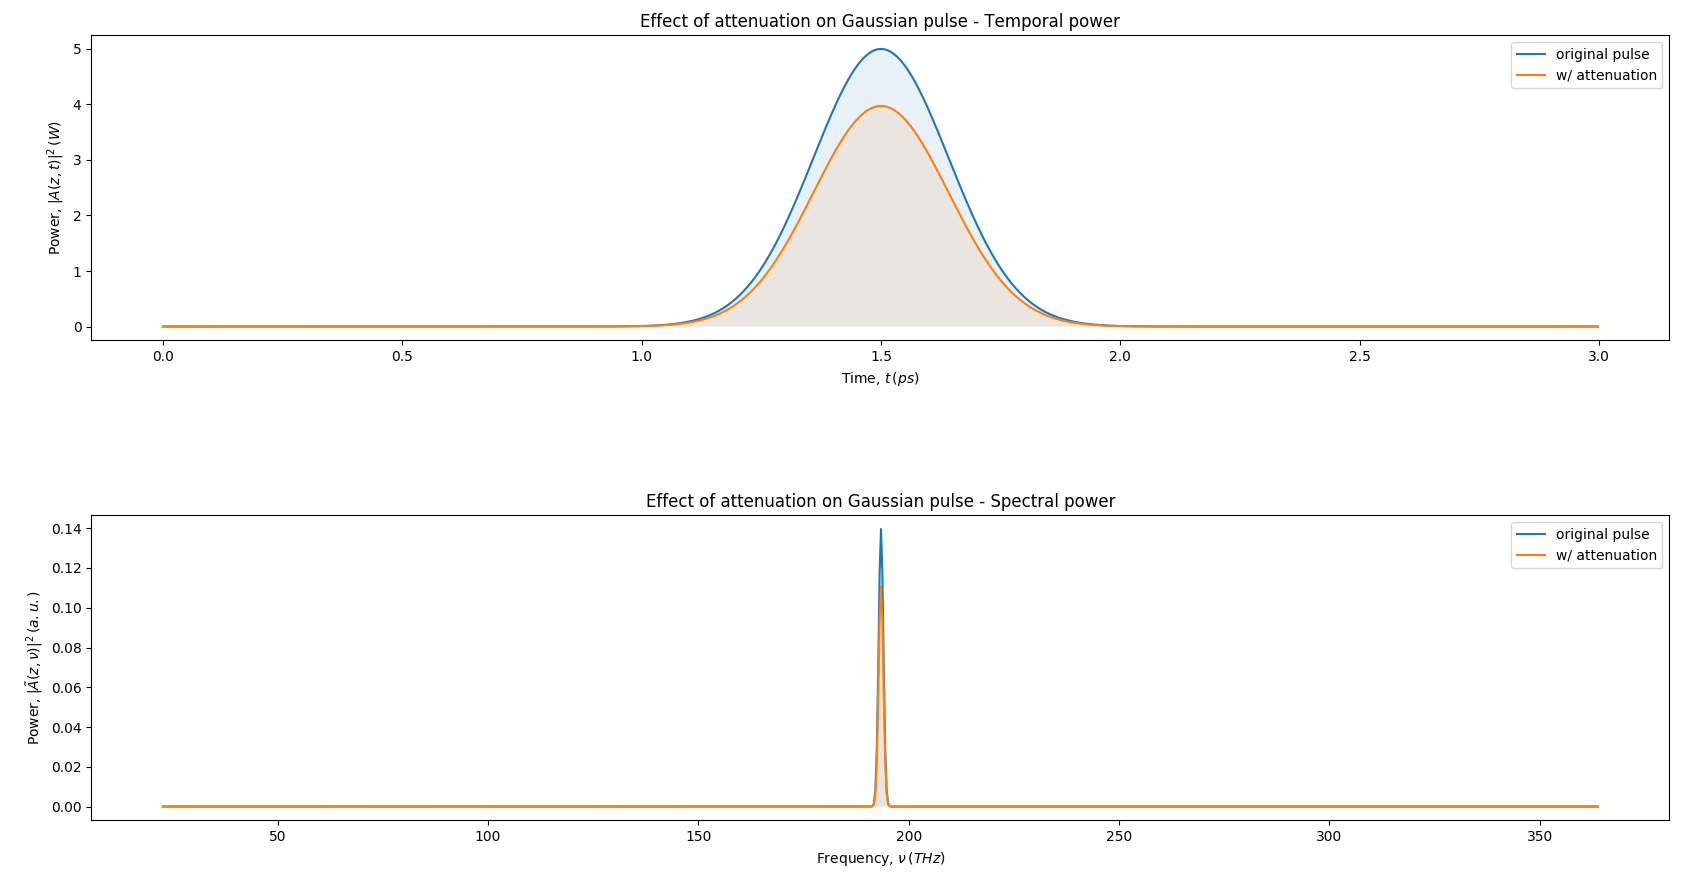
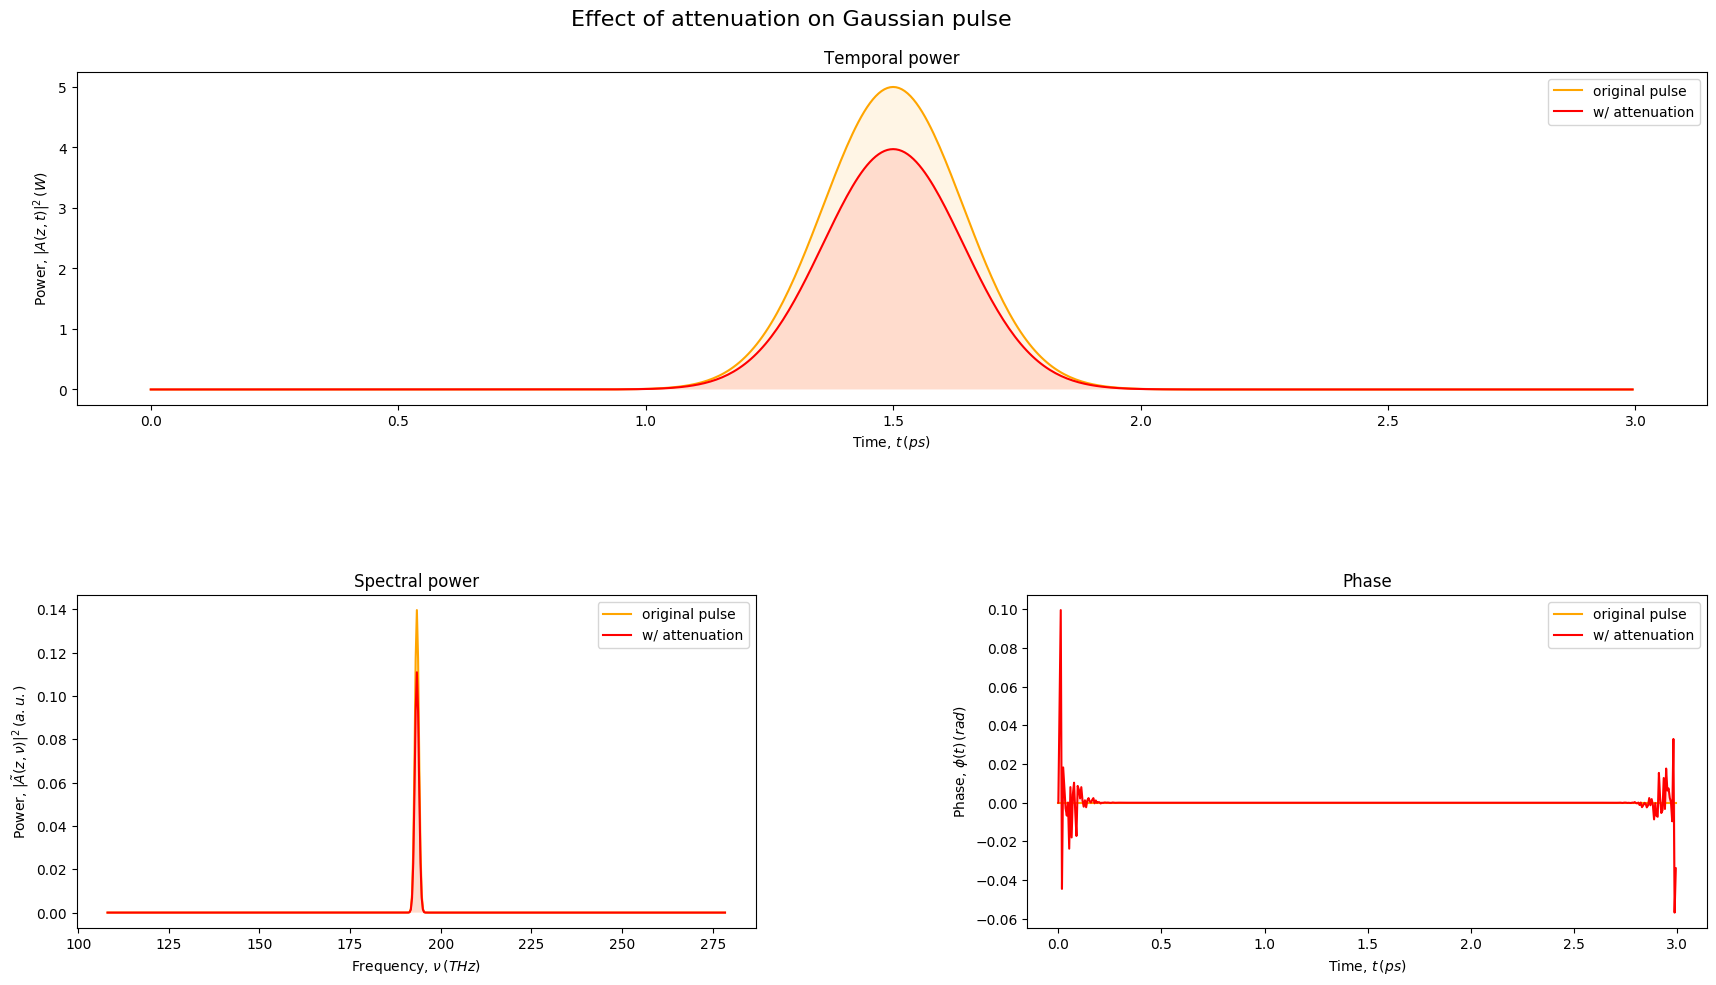
Add resolution in plot() for saving plot

diff --git a/optcom/utils/plot.py b/optcom/utils/plot.py
@@ -57,7 +57,7 @@ linestyles = ['solid', 'dotted', 'dashed', 'dashdot', (0, (1, 10)), (0, (1, 1)),
 
 '''
 # For color, see https://matplotlib.org/examples/color/named_colors.html
-linecolors = ['red', 'orange', 'greenyellow' ,'violet', 'silver', 'brown',
+linecolors = ['orange', 'red', 'greenyellow' ,'violet', 'silver', 'brown',
               'pink', 'gray', 'black', 'marroon', 'blue', 'navy', 'gold',
               'cyan', 'palegreen', 'deepskyblue', 'lime',]
 
@@ -162,7 +162,8 @@ def plot(x_datas: List[Array[float]], y_datas: List[Array[float]],
          plot_colors: Optional[List[str]] = None,
          plot_groups: Optional[List[int]] = None,
          split: Optional[bool] = None, opacity: List[float] = [0.2],
-         fig_title: Optional[str] = None, filename: str = ""):
+         fig_title: Optional[str] = None, filename: str = "",
+         resolution: Tuple[float, float] = (1920., 1080.)) -> None:
 
     # N.B. if y_datas comes from field, np.ndarray is multidim
     # initializing -----------------------------------------------------
@@ -245,7 +246,9 @@ def plot(x_datas: List[Array[float]], y_datas: List[Array[float]],
         plt.suptitle(fig_title, fontsize=16)
     plt.tight_layout()  # Avoiding overlapping texts (legend)
     if (filename != ""):
-        plt.savefig(filename)
+        fig = plt.gcf()
+        fig.set_size_inches(resolution[0]/fig.dpi, resolution[1]/fig.dpi)
+        fig.savefig(filename, bbox_inches='tight')
         util.print_terminal("Graph has been saved on filename '{}'"
                             .format(filename))
     else:

diff --git a/examples/fiber_effects/att.py b/examples/fiber_effects/att.py
@@ -1,6 +1,6 @@
 from optcom import *
 
-domain = Domain(samples_per_bit=2**(15), bit_width=3.0)
+domain = Domain(samples_per_bit=512, bit_width=3.0)
 
 lt = Layout(domain)
 pulse = Gaussian(channels=1, peak_power=[5.0], width=[0.2],
@@ -34,9 +34,7 @@ y_datas.append(phase(fiber.fields[1].channels))
 
 x_labels = ['t', 'nu', 't']
 y_labels = ['P_t', 'P_nu', 'phi']
-plot_titles = ["Temporal power",
-               "Spectral power",
-               "Phase"]
+plot_titles = ["Temporal power", "Spectral power", "Phase"]
 fig_title = "Effect of attenuation on Gaussian pulse"
 
 plot_groups = [0,0,1,1,2,2]
@@ -45,4 +43,5 @@ plot_labels = 3 * ['original pulse', 'w/ attenuation']
 
 plot(x_datas, y_datas, x_labels=x_labels, y_labels=y_labels,
      plot_titles=plot_titles, plot_groups=plot_groups,
-     plot_labels=plot_labels, fig_title=fig_title, opacity=0.1)
+     plot_labels=plot_labels, fig_title=fig_title, opacity=0.1,
+     filename="./examples/fiber_effects/images/att_effect.png")
